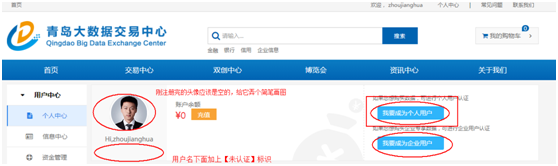
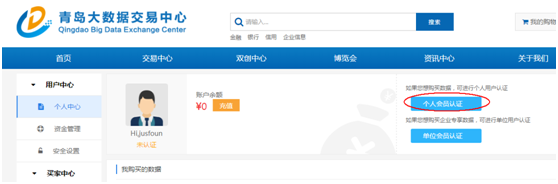
bug

diff --git a/hookah-website/src/main/resources/views/help/buyers_guide.html b/hookah-website/src/main/resources/views/help/buyers_guide.html
@@ -26,6 +26,7 @@ var htmlPart = {
                 </li>
             </ol>
             <h4>第二步：用户认证</h4>
+            <img src="/static/images/help/img-10.png" alt="">
             <ol>
                 <li> <p>1.用注册的帐号登陆交易中心，点击“个人中心”</p>
                     <img src="/static/images/help/img-3.png" alt="">
@@ -33,11 +34,15 @@ var htmlPart = {
                 <li> <p>2.进入“个人中心”界面，点击“我要成为个人用户”</p>
                     <img src="/static/images/help/img-4.png" alt="">
                 </li>
-                <li> <p>3.填写认证</p>
-                     <p>进入个人用户认证界面，按页面要求填写、上传相关信息、资料，绑定银行卡信息，阅读、勾选确认同意用户协议，点击“提交认证”</p>
-                    <img src="/static/images/help/img-5.png" alt="">
+                <li> <p>3.阅读交易规则</p>
+                    <p>阅读交易规则，并勾选确认</p>
+                    <img src="/static/images/help/img-14.png" alt="">
                 </li>
-                <li> <p>4、审核认证</p>
+                <li> <p>4.提交认证信息</p>
+                    <p>进入个人会员认证界面，按页面要求填写、上传相关信息、资料，点击“立即认证”提交认证申请</p>
+                    <img src="/static/images/help/img-13.png" alt="">
+                </li>
+                <li> <p>5.审核认证</p>
                     <p>青岛大数据交易中心会在收到用户提交的认证申请后2个工作日内进行审核，符合标准的，审核通过，用户即可在交易中心平台上操作购买业务；不符合要求的，退回申请，需用户修改后重新提交。</p>
                 </li>
 
@@ -48,9 +53,20 @@ var htmlPart = {
             <h4>第四步：交付流程</h4>
             <P>1.自助交付：买家直接下载或者按照交付指引进行调用、维护。</P>
             <P>2.协助交付：买家不能自助交付的情况下，可以致电青岛大数据交易中心服务热线0532-86617555，由交易中心提供交付所需的指导及必要的技术支持，帮助买家完成交付。</P>
-            <h3 class="text-align-center padding-top-5">单位用户操作指南</h3>
-            <h4>第一步：注册帐号——同个人用户</h4>
-            <h4>第二步：用户认证</h4>
+            <h3 class="text-align-center padding-top-5">单位会员操作指南</h3>
+            <h4>第一步：注册帐号——同个人会员</h4>
+            <ol>
+                <li>
+                    <p>1.登陆青岛大数据交易中心首页http:// www.qddata.com.cn，点击“免费注册”</p>
+                    <img src="/static/images/help/img-11.png" alt="">
+                </li>
+                <li><p>2.进入注册页面，填写信息、阅读并确认同意协议，提交注册</p>
+                    <img src="/static/images/help/img-12.png" alt="">
+
+                </li>
+            </ol>
+            <h4>第二步：单位会员认证</h4>
+            <img src="/static/images/help/img-10.png" alt="">
             <ol>
                 <li>
                     <p>1.用注册的帐号登陆交易中心，点击“个人中心”</p>

diff --git a/hookah-website/src/main/resources/static/js/usercenter/myseller/goodsEdit.js b/hookah-website/src/main/resources/static/js/usercenter/myseller/goodsEdit.js
@@ -145,8 +145,9 @@ function selectGoodsTypes(goodsTypeVal){
 		$('.dataModel-info-box').show();
 	}
 }
+var editor=null;
 function renderWangEdit(){
-	var editor = new wangEditor('textarea1');
+	editor = new wangEditor('textarea1');
 	editor.config.uploadImgUrl = host.static+'/upload/wangeditor';//上传图片（举例）
 	editor.config.uploadImgFileName = 'filename';
 	editor.config.menuFixed = false;//关闭菜单栏fixed
@@ -395,7 +396,7 @@ $.validator.addMethod("isPricceData", function(value, element) {
 }, "小数点不能超过2位");
 $('#J_submitBtn').click(function(){
 	if($("#goodsModifyForm").valid()){
-		if($('#textarea1').val()){
+		if($.trim(editor.$txt.text()).length>0){
 			backAddFn(submitGoodsPublish())
 		}else{
 			$.alert('商品描述不能为空',true,function () {
